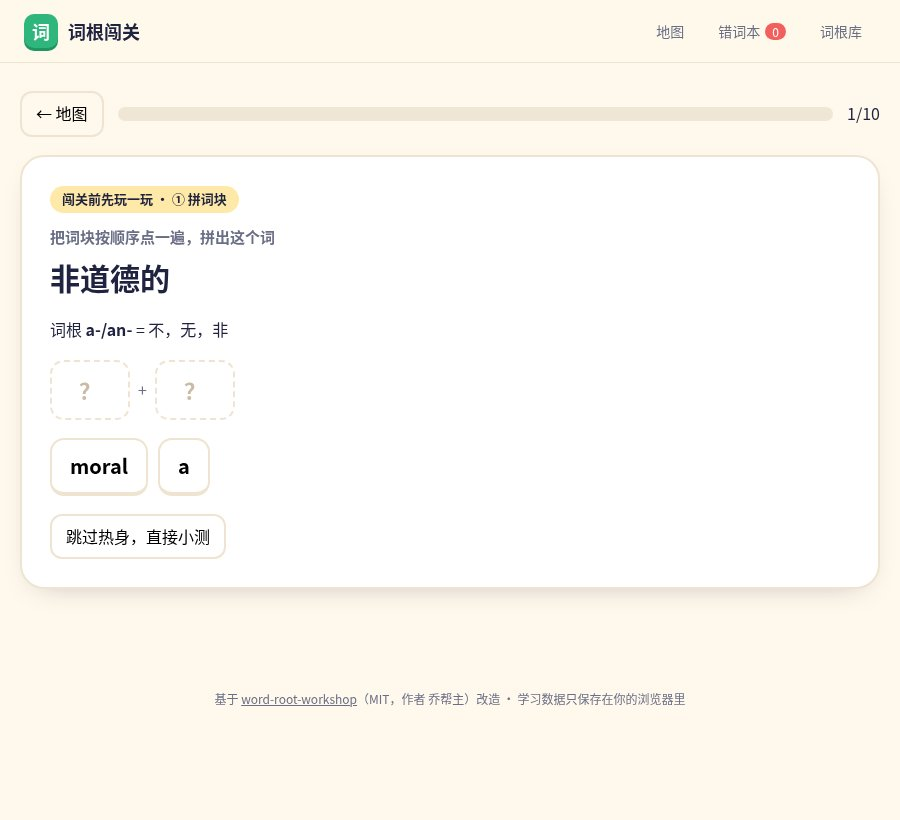
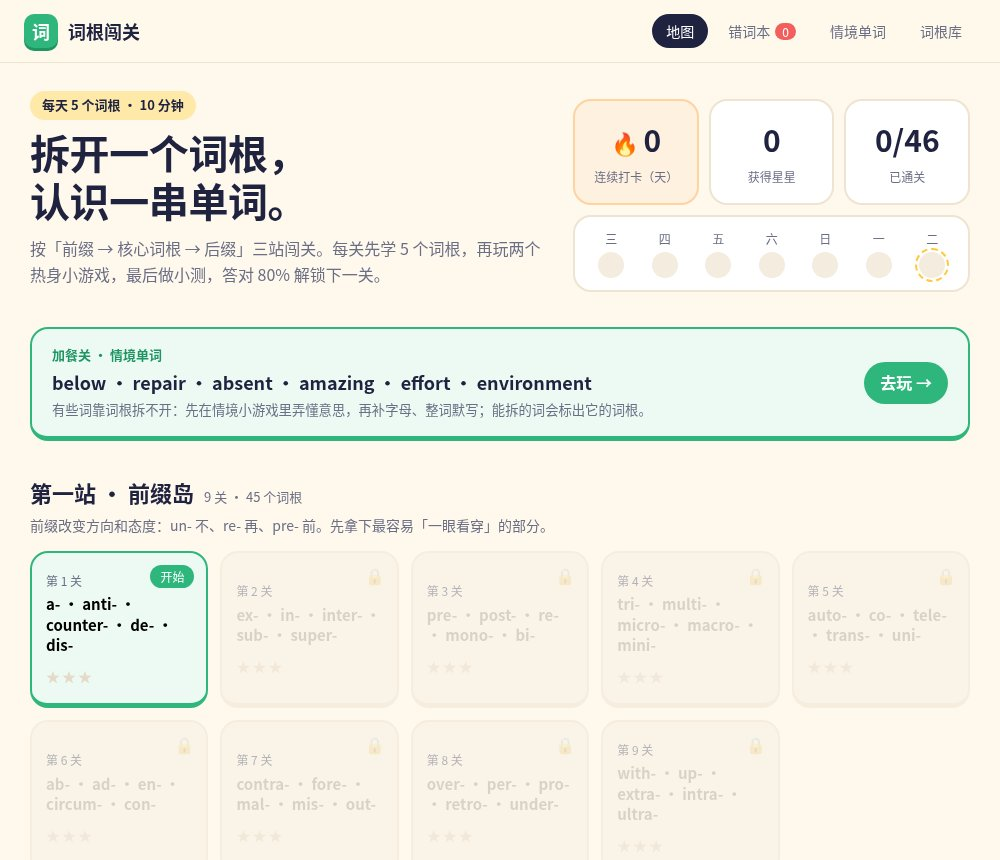
小实验：六词游戏并入词根闯关，恢复 4 张卡片

diff --git a/assets/content.js b/assets/content.js
@@ -162,11 +162,8 @@ window.SITE = {
       desc: "读朱自清《背影》，AI 引导员在 6 个关键处主动出现：先引用原文，再提一个问题。可以划线、写笔记，读完生成阶段复盘。",
       points: [ { k: "演示", v: "引导内容为预先写好，不调用 AI；思路来自我正在做的引导式阅读 App" } ] },
     { title: "词根闯关", status: "在线可玩", wip: false, tag: "AI 学习", link: "https://zouyue123321.github.io/word-root-quest/", repo: "https://github.com/ZouYue123321/word-root-quest", image: "assets/demos/word-root-quest.jpg", art: "",
-      desc: "给初中生的词根单词冒险：每关 5 个词根，先玩拼词块、补词根两个热身小游戏，再做小测，答对 80% 解锁下一关。",
-      points: [ { k: "思路", v: "先玩后测：把「背词根」变成动手拼、动脑补，用分层提示代替直接给答案，让学生在小测前先建立「词根 → 单词」的拆解直觉" } ] },
-    { title: "六词引导小游戏", status: "在线可玩", wip: false, tag: "AI 学习", link: "demos/word-games/index.html", repo: "", image: "assets/demos/word-games.jpg", art: "",
-      desc: "不先给中文，在情境里判断词义，再补字母、整词默写，最后给出学习小结。",
-      points: [ { k: "思路", v: "先懂意思再拼写：用情境小游戏代替中英对照，答错先给方向提示、再给具体提示，最后不看提示独立默写，检验是否真的记住" } ] },
+      desc: "给初中生的词根单词冒险：每关 5 个词根，先玩拼词块、补词根热身，再做小测，答对 80% 解锁下一关；拆不开的词，在「情境单词」加餐关里用小游戏先懂意思再拼写。",
+      points: [ { k: "思路", v: "能拆的词靠词根，拆不开的词靠情境：先玩后测，用分层提示代替直接给答案，让学生先弄懂意思、建立「词根 → 单词」的直觉，再动手拼写" } ] },
     { title: "表达训练镜子", status: "在线可玩", wip: false, tag: "AI 互动", link: "demos/speech-mirror/index.html", repo: "https://github.com/ZouYue123321/speech-mirror", image: "assets/demos/speech-mirror.jpg", art: "",
       desc: "说一段话或上传录音，AI 在浏览器里转成文字，数出「然后、其实、就是」各说了几次，再说一遍还能和上次对比。",
       points: [ { k: "原理", v: "Whisper 语音识别模型通过 Transformers.js 在本地运行，录音不上传" } ] },

diff --git a/assets/app.js b/assets/app.js
@@ -8,7 +8,7 @@ if(EDIT){try{const x=localStorage.getItem(LS);if(x){S=JSON.parse(x);RAW0=JSON.pa
 /* content.js 更新后与浏览器草稿对齐（首屏一句话、关于我、产品笔记、成长记录、结束语）：
  * 草稿里这几项没动过 → 自动换成 content.js 的新内容；草稿里改过、content.js 也变了 → 底部提示，让你选。 */
 const LSB=LS+':base',SYNC={'hero.lead':'首屏一句话',about:'关于我',notes:'产品笔记',timeline:'成长记录',experiments:'小实验','contact.headline':'结束语','hero.meta':'首屏信息','contact.email':'邮箱'};
-const LEGACY={'hero.lead':['j96l36'],about:['u8b8v0'],notes:['rq424u'],timeline:['g3djw9'],experiments:['c0c1z6','v5mhgc','dt7yqh','a1ln1j','1hukaik'],'contact.headline':['lgjt25'],'hero.meta':['vumsu0'],'contact.email':['1cnwroy']};/* 2026.10.17 之前 content.js 的版本指纹 */
+const LEGACY={'hero.lead':['j96l36'],about:['u8b8v0'],notes:['rq424u'],timeline:['g3djw9'],experiments:['c0c1z6','v5mhgc','dt7yqh','a1ln1j','1hukaik','wrrxyr'],'contact.headline':['lgjt25'],'hero.meta':['vumsu0'],'contact.email':['1cnwroy']};/* 2026.10.17 之前 content.js 的版本指纹 */
 const hsh=t=>{let x=5381;for(let i=0;i<t.length;i++)x=((x<<5)+x+t.charCodeAt(i))|0;return (x>>>0).toString(36)};
 const gp=(o,p)=>p.split('.').reduce((o,k)=>o==null?o:o[k],o);
 const sp=(o,p,v)=>{const ks=p.split('.'),l=ks.pop();ks.reduce((o,k)=>o[k]=o[k]||{},o)[l]=JSON.parse(JSON.stringify(v));};
